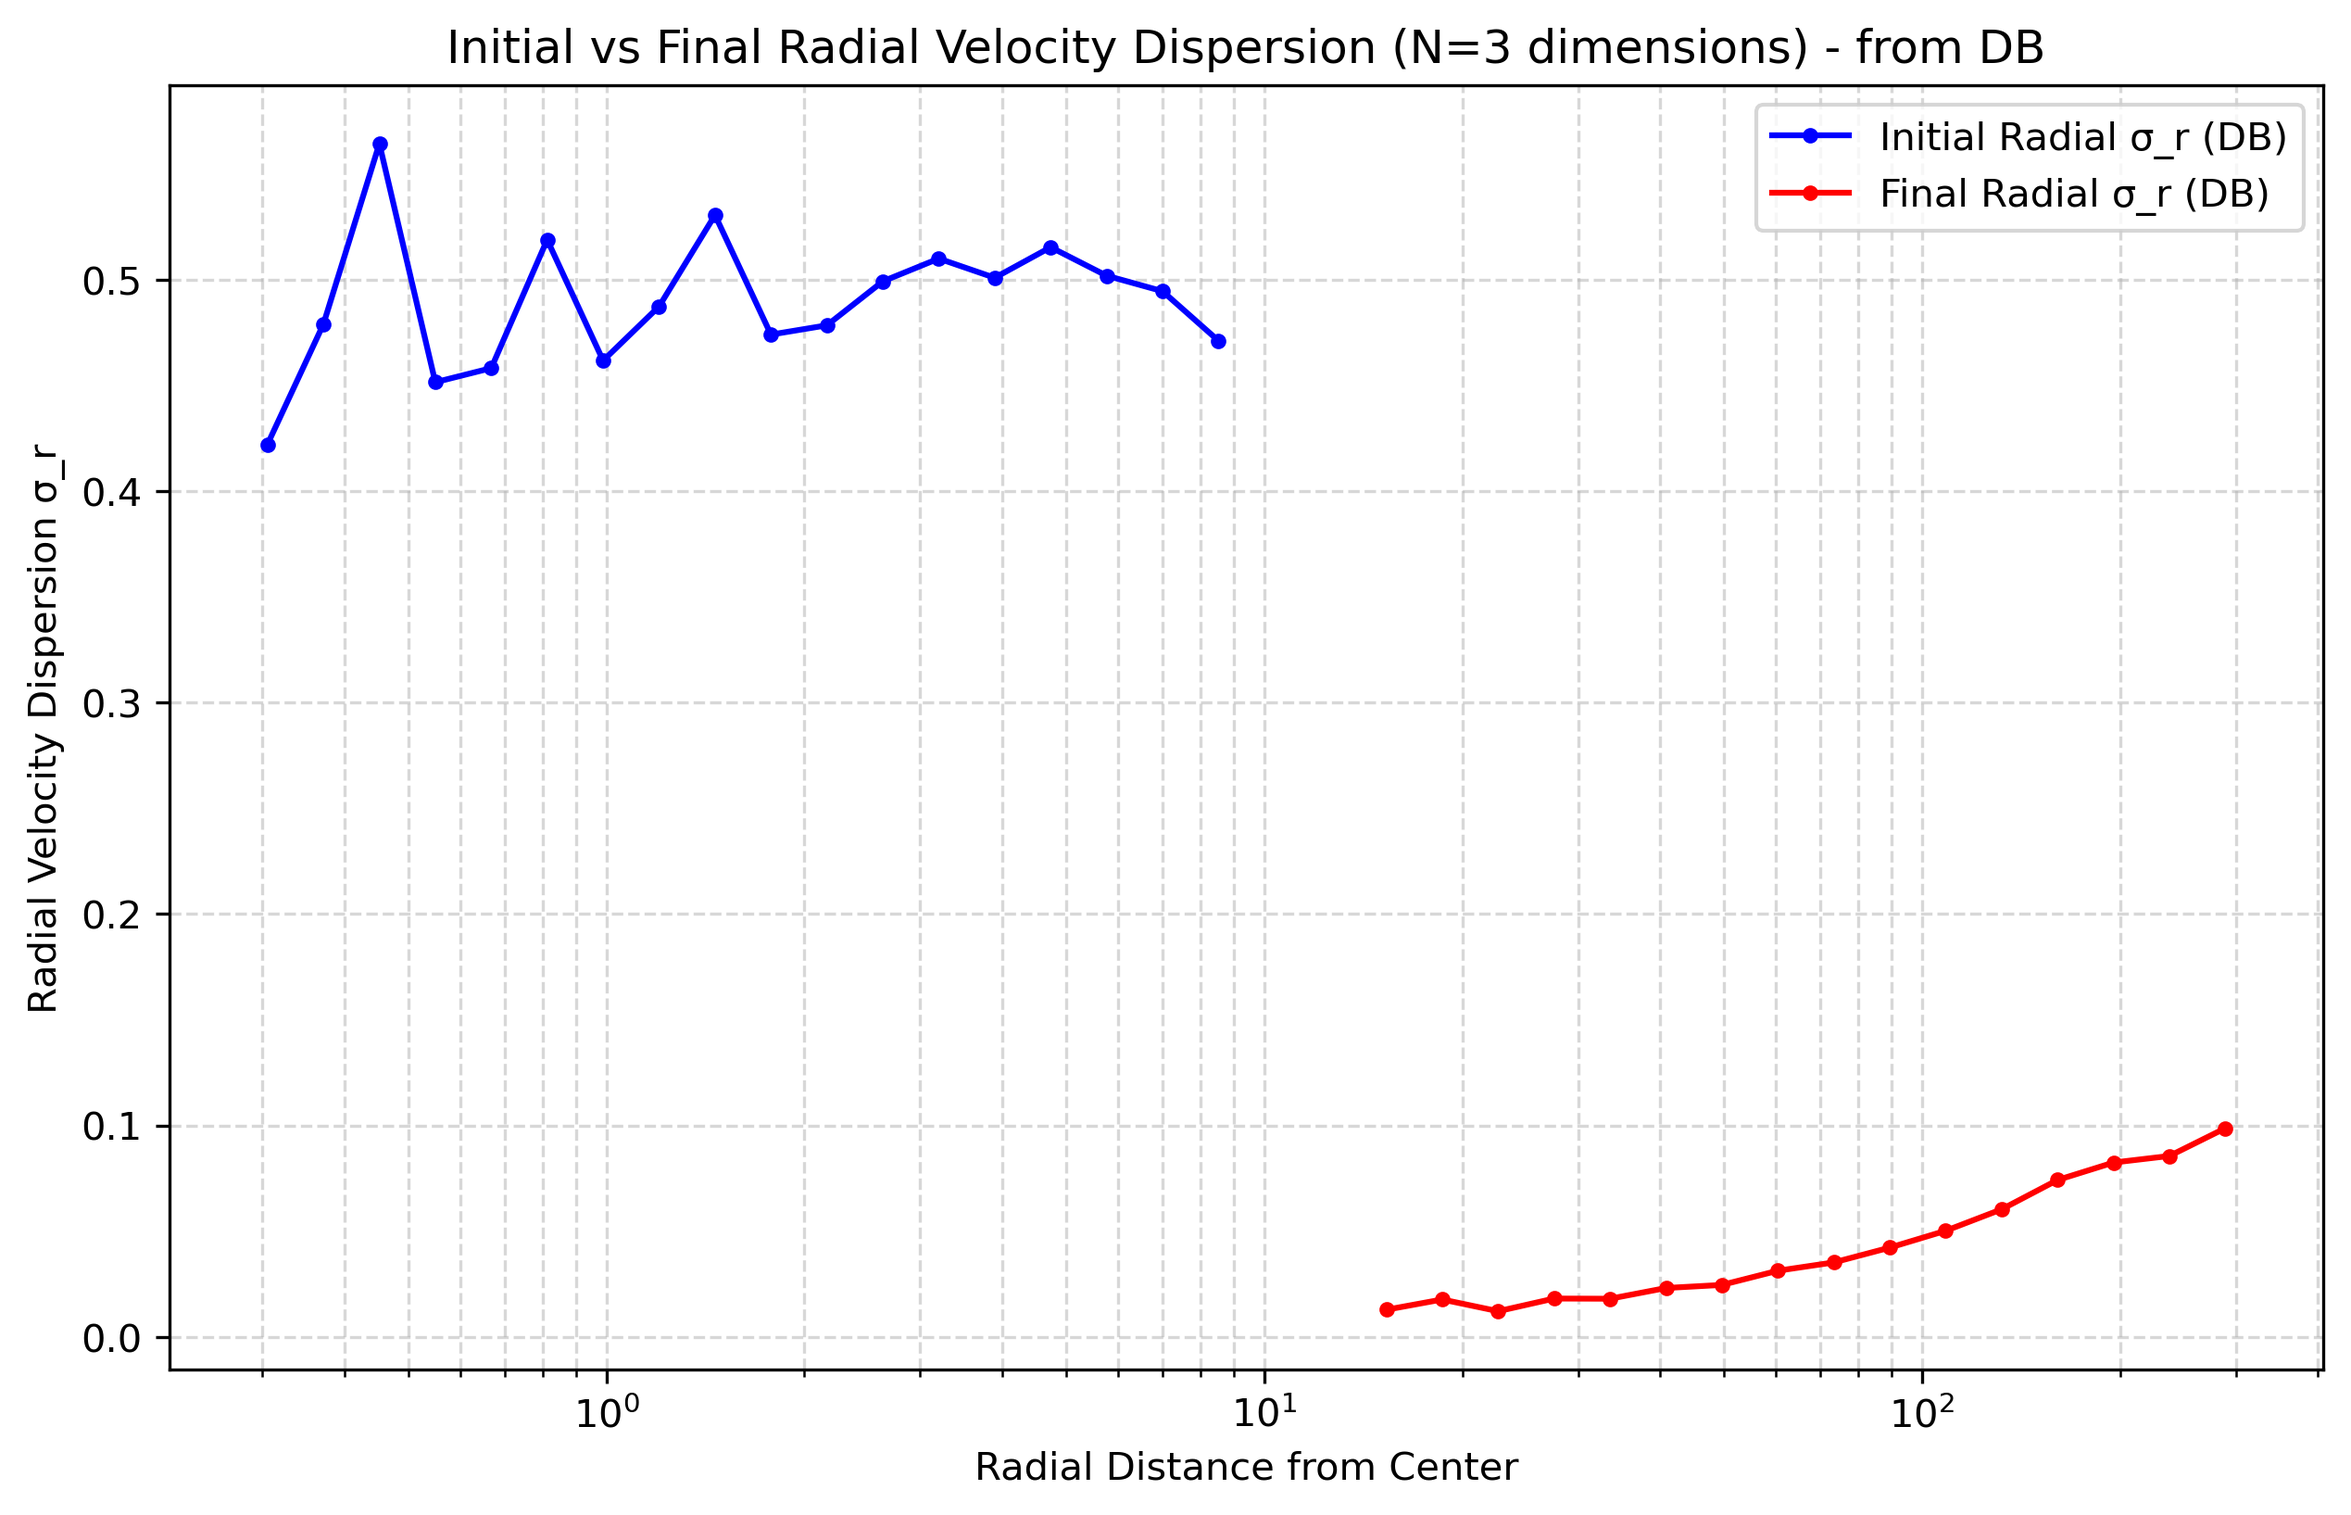
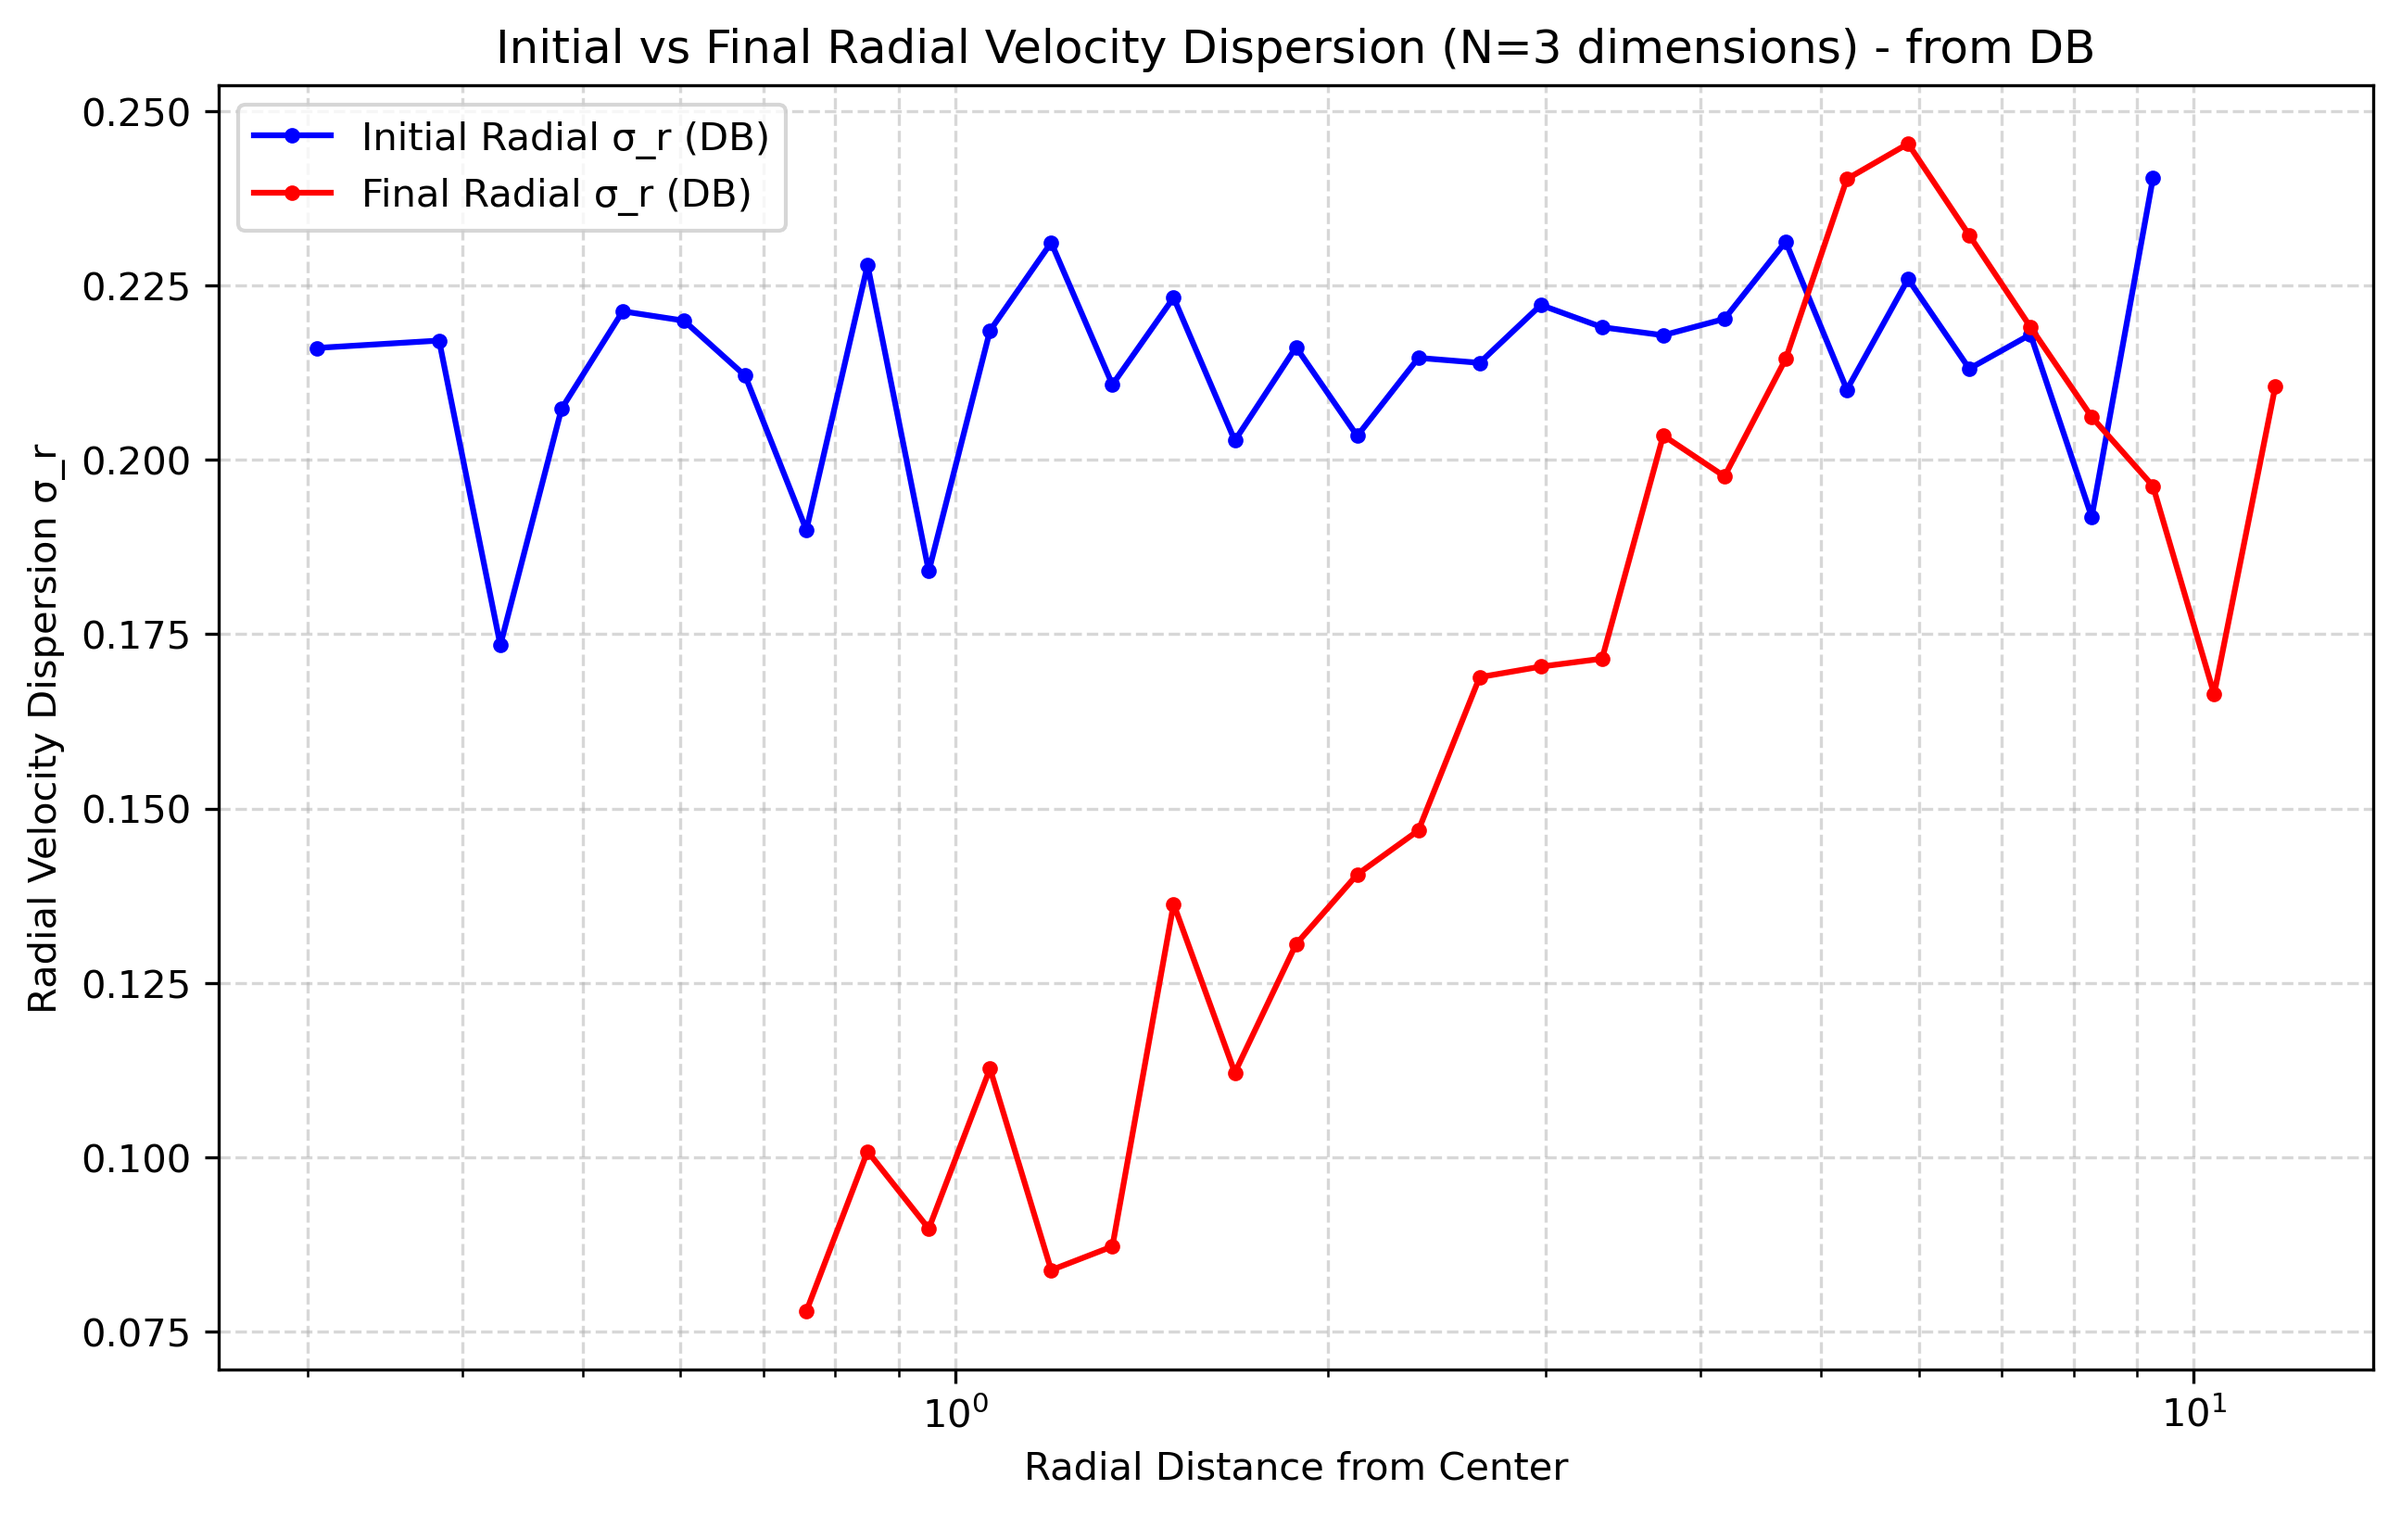
feat: implement initial virial velocity scaling in N-body scripts and enhance virial evolution analysis to track both bound core and total cluster states.

diff --git a/Nbody/Analysis/plot_virial_evolution_from_db.py b/Nbody/Analysis/plot_virial_evolution_from_db.py
@@ -37,8 +37,9 @@ def get_bound_subsystem(pos, vel, mass, G, softening, max_iter=10):
         T_i = 0.5 * mass_curr * np.sum(rel_vel**2, axis=1)
         
         # Potential of each star due to other bound stars
-        diff = rel_pos[:, np.newaxis, :] - rel_pos[np.newaxis, :, :]
-        dist_sq = np.sum(diff**2, axis=-1)
+        pos_sq = np.sum(rel_pos**2, axis=1)
+        dist_sq = pos_sq[:, np.newaxis] + pos_sq[np.newaxis, :] - 2 * np.dot(rel_pos, rel_pos.T)
+        dist_sq = np.maximum(dist_sq, 0.0)  # Avoid negative values due to floating-point precision
         inv_dist = 1.0 / np.sqrt(dist_sq + softening**2)
         np.fill_diagonal(inv_dist, 0)
         
@@ -153,6 +154,7 @@ def main():
 
     times = []
     virial_ratios = []
+    virial_ratios_all = []
     bound_fractions = []
 
     # Get N_STARS
@@ -188,23 +190,47 @@ def main():
         pos = np.array([row[0] for row in rows])
         vel = np.array([row[1] for row in rows])
         mass = np.array([row[2] for row in rows])
+        # Normalize masses to N-body units (sum to 1.0) to match N-body positions and velocities
+        mass = mass / np.sum(mass)
         time_val = float(rows[0][3])
         
-        # Compute bound subsystem
+        # 1. Compute bound subsystem virial
         bound_indices, T_bound, V_bound = get_bound_subsystem(
             pos, vel, mass, args.g_constant, args.softening
         )
-        
-        # Calculate virial ratio Q = T / |V|
         if V_bound != 0:
-            Q = T_bound / abs(V_bound)
+            Q_bound = T_bound / abs(V_bound)
         else:
-            Q = np.nan
+            Q_bound = np.nan
+            
+        # 2. Compute entire cluster virial (all stars)
+        total_m_all = np.sum(mass)
+        cm_pos_all = np.sum(pos * mass[:, np.newaxis], axis=0) / total_m_all
+        cm_vel_all = np.sum(vel * mass[:, np.newaxis], axis=0) / total_m_all
+        rel_pos_all = pos - cm_pos_all
+        rel_vel_all = vel - cm_vel_all
+        
+        T_all = 0.5 * np.sum(mass * np.sum(rel_vel_all**2, axis=1))
+        
+        pos_sq_all = np.sum(rel_pos_all**2, axis=1)
+        dist_sq_all = pos_sq_all[:, np.newaxis] + pos_sq_all[np.newaxis, :] - 2 * np.dot(rel_pos_all, rel_pos_all.T)
+        dist_sq_all = np.maximum(dist_sq_all, 0.0)
+        inv_dist_all = 1.0 / np.sqrt(dist_sq_all + args.softening**2)
+        np.fill_diagonal(inv_dist_all, 0)
+        
+        Phi_all = -args.g_constant * np.sum(mass * inv_dist_all, axis=1)
+        V_all = 0.5 * np.sum(mass * Phi_all)
+        
+        if V_all != 0:
+            Q_all = T_all / abs(V_all)
+        else:
+            Q_all = np.nan
             
         bound_frac = len(bound_indices) / len(mass)
         
         times.append(time_val)
-        virial_ratios.append(Q)
+        virial_ratios.append(Q_bound)
+        virial_ratios_all.append(Q_all)
         bound_fractions.append(bound_frac)
 
     print("\nAnalysis complete. Generating plots...")
@@ -215,10 +241,11 @@ def main():
     fig, (ax1, ax2) = plt.subplots(2, 1, figsize=(10, 8), sharex=True)
 
     # Plot Virial Ratio
-    ax1.plot(times, virial_ratios, color='crimson', label='Virial Ratio Q = T/|V|', linewidth=2)
-    ax1.axhline(y=0.5, color='gray', linestyle='--', label='Virial Equilibrium (Q=0.5)')
+    ax1.plot(times, virial_ratios, color='crimson', label='Bound Core Virial Q = T/|V|', linewidth=2)
+    ax1.plot(times, virial_ratios_all, color='darkorange', linestyle='--', label='Entire Cluster Virial Q = T/|V|', linewidth=2)
+    ax1.axhline(y=0.5, color='gray', linestyle=':', label='Virial Equilibrium (Q=0.5)')
     ax1.set_ylabel('Virial Ratio Q')
-    ax1.set_title(f'Evolution of the Bound Core (N={dim_space} dimensions)')
+    ax1.set_title(f'Evolution of the Virial Ratio (N={dim_space} dimensions)')
     ax1.legend()
     ax1.grid(True, linestyle='--', alpha=0.5)
 

diff --git a/Nbody/nbody-hypercluster-rocm-100D.py b/Nbody/nbody-hypercluster-rocm-100D.py
@@ -67,6 +67,23 @@ with torch.no_grad():
     total_mass = torch.sum(mass_gpu)
     mass_gpu = mass_gpu / total_mass
 
+    # Shift velocities to stop CoM drift
+    mass_sum = mass_gpu.sum()
+    vel_cm = (vel_gpu * mass_gpu).sum(dim=0) / mass_sum
+    vel_gpu -= vel_cm
+
+    # Compute energies and scale velocities to Virial Equilibrium (Q = 0.5)
+    T = 0.5 * torch.sum(mass_gpu * torch.sum(vel_gpu**2, dim=1, keepdim=True)).item()
+    dist_mat = torch.cdist(pos_gpu, pos_gpu, p=2)
+    inv_dist = 1.0 / torch.sqrt(dist_mat**2 + SOFTENING**2)
+    inv_dist.fill_diagonal_(0)
+    V = -0.5 * G * torch.sum(mass_gpu * torch.matmul(inv_dist, mass_gpu)).item()
+    
+    f_scale = math.sqrt(0.5 * abs(V) / T)
+    vel_gpu *= f_scale
+    print(f"➔ Initial Virial Ratio before scaling: {T/abs(V):.4f}")
+    print(f"➔ Scaled velocities by factor {f_scale:.4f} to achieve virial equilibrium (Q = 0.5)")
+
 G_PHYS = 0.00449
 L_UNIT = 1.0
 time_to_myr = np.sqrt((L_UNIT**3) / (G_PHYS * total_mass.item()))

diff --git a/Nbody/nbody-hypercluster-rocm-2D.py b/Nbody/nbody-hypercluster-rocm-2D.py
@@ -67,6 +67,23 @@ with torch.no_grad():
     total_mass = torch.sum(mass_gpu)
     mass_gpu = mass_gpu / total_mass
 
+    # Shift velocities to stop CoM drift
+    mass_sum = mass_gpu.sum()
+    vel_cm = (vel_gpu * mass_gpu).sum(dim=0) / mass_sum
+    vel_gpu -= vel_cm
+
+    # Compute energies and scale velocities to Virial Equilibrium (Q = 0.5)
+    T = 0.5 * torch.sum(mass_gpu * torch.sum(vel_gpu**2, dim=1, keepdim=True)).item()
+    dist_mat = torch.cdist(pos_gpu, pos_gpu, p=2)
+    inv_dist = 1.0 / torch.sqrt(dist_mat**2 + SOFTENING**2)
+    inv_dist.fill_diagonal_(0)
+    V = -0.5 * G * torch.sum(mass_gpu * torch.matmul(inv_dist, mass_gpu)).item()
+    
+    f_scale = math.sqrt(0.5 * abs(V) / T)
+    vel_gpu *= f_scale
+    print(f"➔ Initial Virial Ratio before scaling: {T/abs(V):.4f}")
+    print(f"➔ Scaled velocities by factor {f_scale:.4f} to achieve virial equilibrium (Q = 0.5)")
+
 G_PHYS = 0.00449
 L_UNIT = 1.0
 time_to_myr = np.sqrt((L_UNIT**3) / (G_PHYS * total_mass.item()))

diff --git a/Nbody/nbody-hypercluster-rocm-3D.py b/Nbody/nbody-hypercluster-rocm-3D.py
@@ -67,6 +67,23 @@ with torch.no_grad():
     total_mass = torch.sum(mass_gpu)
     mass_gpu = mass_gpu / total_mass
 
+    # Shift velocities to stop CoM drift
+    mass_sum = mass_gpu.sum()
+    vel_cm = (vel_gpu * mass_gpu).sum(dim=0) / mass_sum
+    vel_gpu -= vel_cm
+
+    # Compute energies and scale velocities to Virial Equilibrium (Q = 0.5)
+    T = 0.5 * torch.sum(mass_gpu * torch.sum(vel_gpu**2, dim=1, keepdim=True)).item()
+    dist_mat = torch.cdist(pos_gpu, pos_gpu, p=2)
+    inv_dist = 1.0 / torch.sqrt(dist_mat**2 + SOFTENING**2)
+    inv_dist.fill_diagonal_(0)
+    V = -0.5 * G * torch.sum(mass_gpu * torch.matmul(inv_dist, mass_gpu)).item()
+    
+    f_scale = math.sqrt(0.5 * abs(V) / T)
+    vel_gpu *= f_scale
+    print(f"➔ Initial Virial Ratio before scaling: {T/abs(V):.4f}")
+    print(f"➔ Scaled velocities by factor {f_scale:.4f} to achieve virial equilibrium (Q = 0.5)")
+
 G_PHYS = 0.00449
 L_UNIT = 1.0
 time_to_myr = np.sqrt((L_UNIT**3) / (G_PHYS * total_mass.item()))

diff --git a/Nbody/nbody-hypercluster-rocm-4D.py b/Nbody/nbody-hypercluster-rocm-4D.py
@@ -67,6 +67,23 @@ with torch.no_grad():
     total_mass = torch.sum(mass_gpu)
     mass_gpu = mass_gpu / total_mass
 
+    # Shift velocities to stop CoM drift
+    mass_sum = mass_gpu.sum()
+    vel_cm = (vel_gpu * mass_gpu).sum(dim=0) / mass_sum
+    vel_gpu -= vel_cm
+
+    # Compute energies and scale velocities to Virial Equilibrium (Q = 0.5)
+    T = 0.5 * torch.sum(mass_gpu * torch.sum(vel_gpu**2, dim=1, keepdim=True)).item()
+    dist_mat = torch.cdist(pos_gpu, pos_gpu, p=2)
+    inv_dist = 1.0 / torch.sqrt(dist_mat**2 + SOFTENING**2)
+    inv_dist.fill_diagonal_(0)
+    V = -0.5 * G * torch.sum(mass_gpu * torch.matmul(inv_dist, mass_gpu)).item()
+    
+    f_scale = math.sqrt(0.5 * abs(V) / T)
+    vel_gpu *= f_scale
+    print(f"➔ Initial Virial Ratio before scaling: {T/abs(V):.4f}")
+    print(f"➔ Scaled velocities by factor {f_scale:.4f} to achieve virial equilibrium (Q = 0.5)")
+
 G_PHYS = 0.00449
 L_UNIT = 1.0
 time_to_myr = np.sqrt((L_UNIT**3) / (G_PHYS * total_mass.item()))

diff --git a/Nbody/nbody-hypercluster-rocm-5D.py b/Nbody/nbody-hypercluster-rocm-5D.py
@@ -67,6 +67,23 @@ with torch.no_grad():
     total_mass = torch.sum(mass_gpu)
     mass_gpu = mass_gpu / total_mass
 
+    # Shift velocities to stop CoM drift
+    mass_sum = mass_gpu.sum()
+    vel_cm = (vel_gpu * mass_gpu).sum(dim=0) / mass_sum
+    vel_gpu -= vel_cm
+
+    # Compute energies and scale velocities to Virial Equilibrium (Q = 0.5)
+    T = 0.5 * torch.sum(mass_gpu * torch.sum(vel_gpu**2, dim=1, keepdim=True)).item()
+    dist_mat = torch.cdist(pos_gpu, pos_gpu, p=2)
+    inv_dist = 1.0 / torch.sqrt(dist_mat**2 + SOFTENING**2)
+    inv_dist.fill_diagonal_(0)
+    V = -0.5 * G * torch.sum(mass_gpu * torch.matmul(inv_dist, mass_gpu)).item()
+    
+    f_scale = math.sqrt(0.5 * abs(V) / T)
+    vel_gpu *= f_scale
+    print(f"➔ Initial Virial Ratio before scaling: {T/abs(V):.4f}")
+    print(f"➔ Scaled velocities by factor {f_scale:.4f} to achieve virial equilibrium (Q = 0.5)")
+
 G_PHYS = 0.00449
 L_UNIT = 1.0
 time_to_myr = np.sqrt((L_UNIT**3) / (G_PHYS * total_mass.item()))

diff --git a/Nbody/nbody-hypercluster-rocm-6D.py b/Nbody/nbody-hypercluster-rocm-6D.py
@@ -67,6 +67,23 @@ with torch.no_grad():
     total_mass = torch.sum(mass_gpu)
     mass_gpu = mass_gpu / total_mass
 
+    # Shift velocities to stop CoM drift
+    mass_sum = mass_gpu.sum()
+    vel_cm = (vel_gpu * mass_gpu).sum(dim=0) / mass_sum
+    vel_gpu -= vel_cm
+
+    # Compute energies and scale velocities to Virial Equilibrium (Q = 0.5)
+    T = 0.5 * torch.sum(mass_gpu * torch.sum(vel_gpu**2, dim=1, keepdim=True)).item()
+    dist_mat = torch.cdist(pos_gpu, pos_gpu, p=2)
+    inv_dist = 1.0 / torch.sqrt(dist_mat**2 + SOFTENING**2)
+    inv_dist.fill_diagonal_(0)
+    V = -0.5 * G * torch.sum(mass_gpu * torch.matmul(inv_dist, mass_gpu)).item()
+    
+    f_scale = math.sqrt(0.5 * abs(V) / T)
+    vel_gpu *= f_scale
+    print(f"➔ Initial Virial Ratio before scaling: {T/abs(V):.4f}")
+    print(f"➔ Scaled velocities by factor {f_scale:.4f} to achieve virial equilibrium (Q = 0.5)")
+
 G_PHYS = 0.00449
 L_UNIT = 1.0
 time_to_myr = np.sqrt((L_UNIT**3) / (G_PHYS * total_mass.item()))
